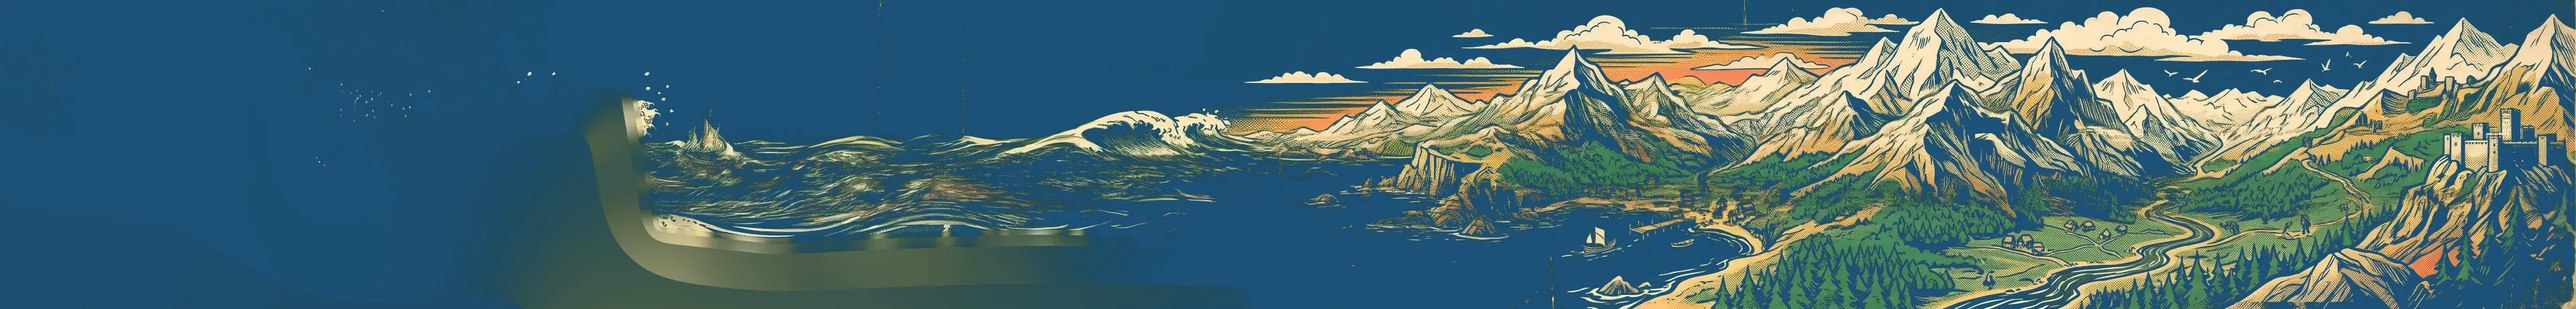
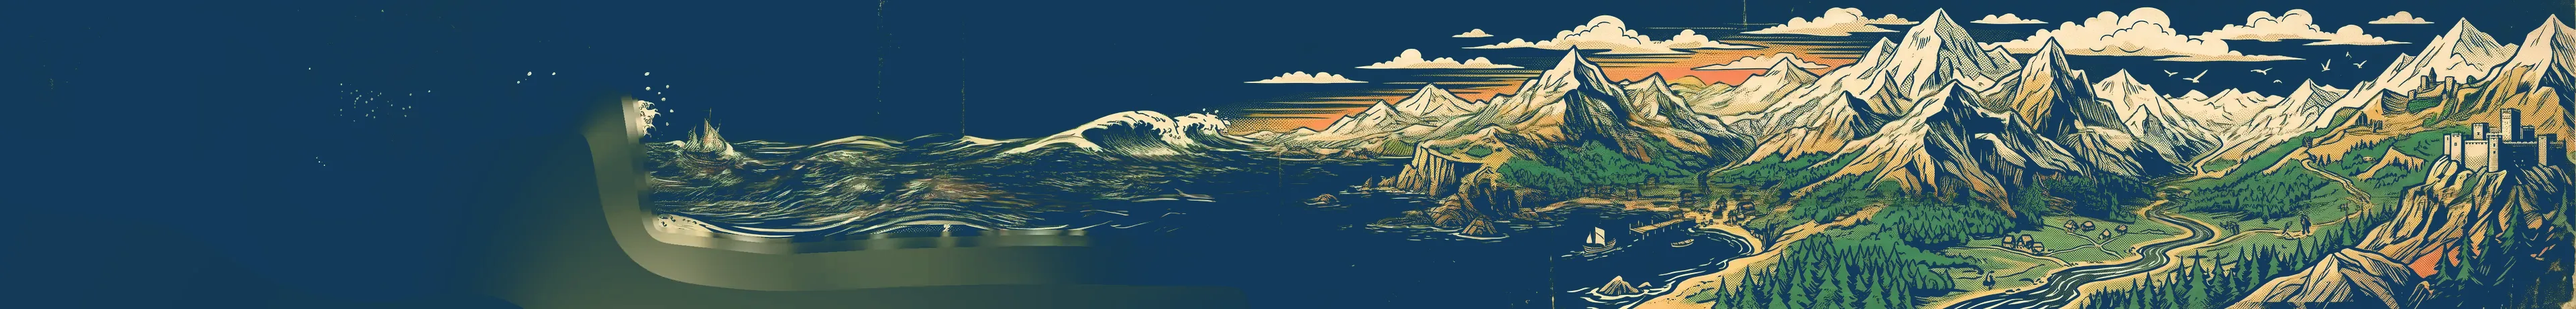
darker-blue: a deeper cyanotype for comparison
Page #123A5C, deepest #0B2740, raised cards #12385A — a few stops down from
the mid blue on main, nearer the shadowed end of the reference prints.

The divider separations are re-toned against this page colour, since the rule
that dissolves the painting's sky into the paper only works when it targets
the blue actually behind it.

Contrast improves across the board: cream 10.79:1, marigold 6.68:1, sky 6.97:1.

diff --git a/src/pages/Edutainment.jsx b/src/pages/Edutainment.jsx
@@ -186,7 +186,7 @@ export default function Edutainment() {
           background:${T.coral}; color:${T.pineDeep}; font-size:34px; display:grid; place-items:center; padding-left:6px; box-shadow:0 10px 30px #0008; }
         @media (max-width:560px){ .ed-play{ width:60px; height:60px; margin:-30px 0 0 -30px; font-size:22px; padding-left:4px; } .ed-news{ border-width:4px; } }
         .ed-points{ list-style:none; margin-top:26px; display:grid; gap:12px; }
-        .ed-points li{ background:#17466B; border:2px solid ${T.cream}1f; border-radius:16px; padding:16px 18px; }
+        .ed-points li{ background:#12385A; border:2px solid ${T.cream}1f; border-radius:16px; padding:16px 18px; }
         .ed-points b{ display:block; font-size:17px; margin-bottom:4px; }
         .ed-points span{ font-size:15px; line-height:1.45; color:${T.cream}bb; }
 
@@ -244,7 +244,7 @@ export default function Edutainment() {
         @media (min-width:760px){ .ed-listen{ grid-template-columns:minmax(0,1fr) minmax(0,310px); } }
         .ed-spotify{ display:block; width:100%; height:152px; border:0; border-radius:14px; }
         .ed-yt{ display:flex; align-items:center; gap:14px; height:152px; padding:16px; border-radius:14px;
-          background:#17466B; border:2px solid ${T.cream}1f; color:${T.cream}; text-decoration:none;
+          background:#12385A; border:2px solid ${T.cream}1f; color:${T.cream}; text-decoration:none;
           transition:transform .3s var(--ease-settle), border-color .3s; }
         .ed-yt:hover{ transform:translateY(-3px); border-color:${T.marigold}66; }
         .ed-yt img{ width:84px; height:84px; border-radius:50%; flex:none; display:block; }

diff --git a/src/pages/CoolCareers.jsx b/src/pages/CoolCareers.jsx
@@ -159,7 +159,7 @@ export default function CoolCareers() {
         @media (max-width:560px){ .brand{ font-size:15px; } .navr .btn{ display:none; } }
 
         /* top — title, tagline, the music video */
-        .cc-top{ background:radial-gradient(120% 80% at 50% 0%, #17466B 0%, ${T.pine} 62%); text-align:center;
+        .cc-top{ background:radial-gradient(120% 80% at 50% 0%, #12385A 0%, ${T.pine} 62%); text-align:center;
           padding:calc(clamp(84px,11vh,112px) + 12px) clamp(16px,4vw,48px) clamp(40px,6vh,64px); }
         .cc-top h1{ font-size:clamp(52px,9vw,120px); color:${T.cream}; }
         .cc-tagline{ margin:10px auto clamp(24px,4vh,36px); font-family:'Space Mono', ui-monospace, monospace; font-size:clamp(13px,1.6vw,17px);

diff --git a/src/pages/RegenArt.jsx b/src/pages/RegenArt.jsx
@@ -65,7 +65,7 @@ export default function RegenArt() {
         .ra-split{ display:grid; gap:clamp(24px,4vw,52px); align-items:start; grid-template-columns:1fr; }
         @media (min-width:900px){ .ra-split{ grid-template-columns:1fr 1fr; } }
         .ra-points{ list-style:none; margin-top:24px; display:grid; gap:12px; }
-        .ra-points li{ background:#17466B; border:2px solid ${T.cream}1f; border-radius:16px; padding:16px 18px; }
+        .ra-points li{ background:#12385A; border:2px solid ${T.cream}1f; border-radius:16px; padding:16px 18px; }
         .ra-points b{ display:block; font-size:17px; margin-bottom:4px; }
         .ra-points span{ font-size:15px; line-height:1.45; color:${T.cream}bb; }
 

diff --git a/src/pages/BookDemo.jsx b/src/pages/BookDemo.jsx
@@ -40,7 +40,7 @@ export default function BookDemo() {
 
         .bd-points{ list-style:none; margin-top:clamp(24px,4vh,34px); display:grid; gap:14px; }
         @media (min-width:860px){ .bd-points{ grid-template-columns:repeat(3,1fr); } }
-        .bd-points li{ background:#17466B; border:2px solid ${T.cream}1f; border-radius:16px; padding:20px 20px 22px; }
+        .bd-points li{ background:#12385A; border:2px solid ${T.cream}1f; border-radius:16px; padding:20px 20px 22px; }
         .bd-points b{ display:block; font-size:18px; margin-bottom:6px; }
         .bd-points span{ font-size:15px; line-height:1.5; color:${T.cream}bb; }
 

diff --git a/index.html b/index.html
@@ -3,7 +3,7 @@
   <head>
     <meta charset="UTF-8" />
     <meta name="viewport" content="width=device-width, initial-scale=1.0" />
-    <meta name="theme-color" content="#1C5178" />
+    <meta name="theme-color" content="#123A5C" />
     <link rel="icon" type="image/svg+xml" href="/favicon.svg" />
     <title>All Aboard Earth — Up We Go!</title>
     <meta name="description" content="All Aboard Earth is a movement igniting the visionary willpower of humanity to foster ecological health through green career pathways, environmental edutainment and regenerative art." />

diff --git a/src/theme.js b/src/theme.js
@@ -1,7 +1,7 @@
 // Color Crew — shared by every page so the palette has one source of truth.
 export const T = {
-  pine: "#1C5178",      // cyanotype mid
-  pineDeep: "#102F4C",  // cyanotype deep
+  pine: "#123A5C",      // cyanotype deep
+  pineDeep: "#0B2740",  // cyanotype deepest
   ink: "#0A1F33",       // text on the accent fills; deeper than pineDeep so coral still clears contrast
   cream: "#FFF4DF",
   marigold: "#FFB53C",

diff --git a/src/index.css b/src/index.css
@@ -1,1 +1,1 @@
-html, body, #root { margin: 0; padding: 0; background: #1C5178; }
+html, body, #root { margin: 0; padding: 0; background: #123A5C; }
